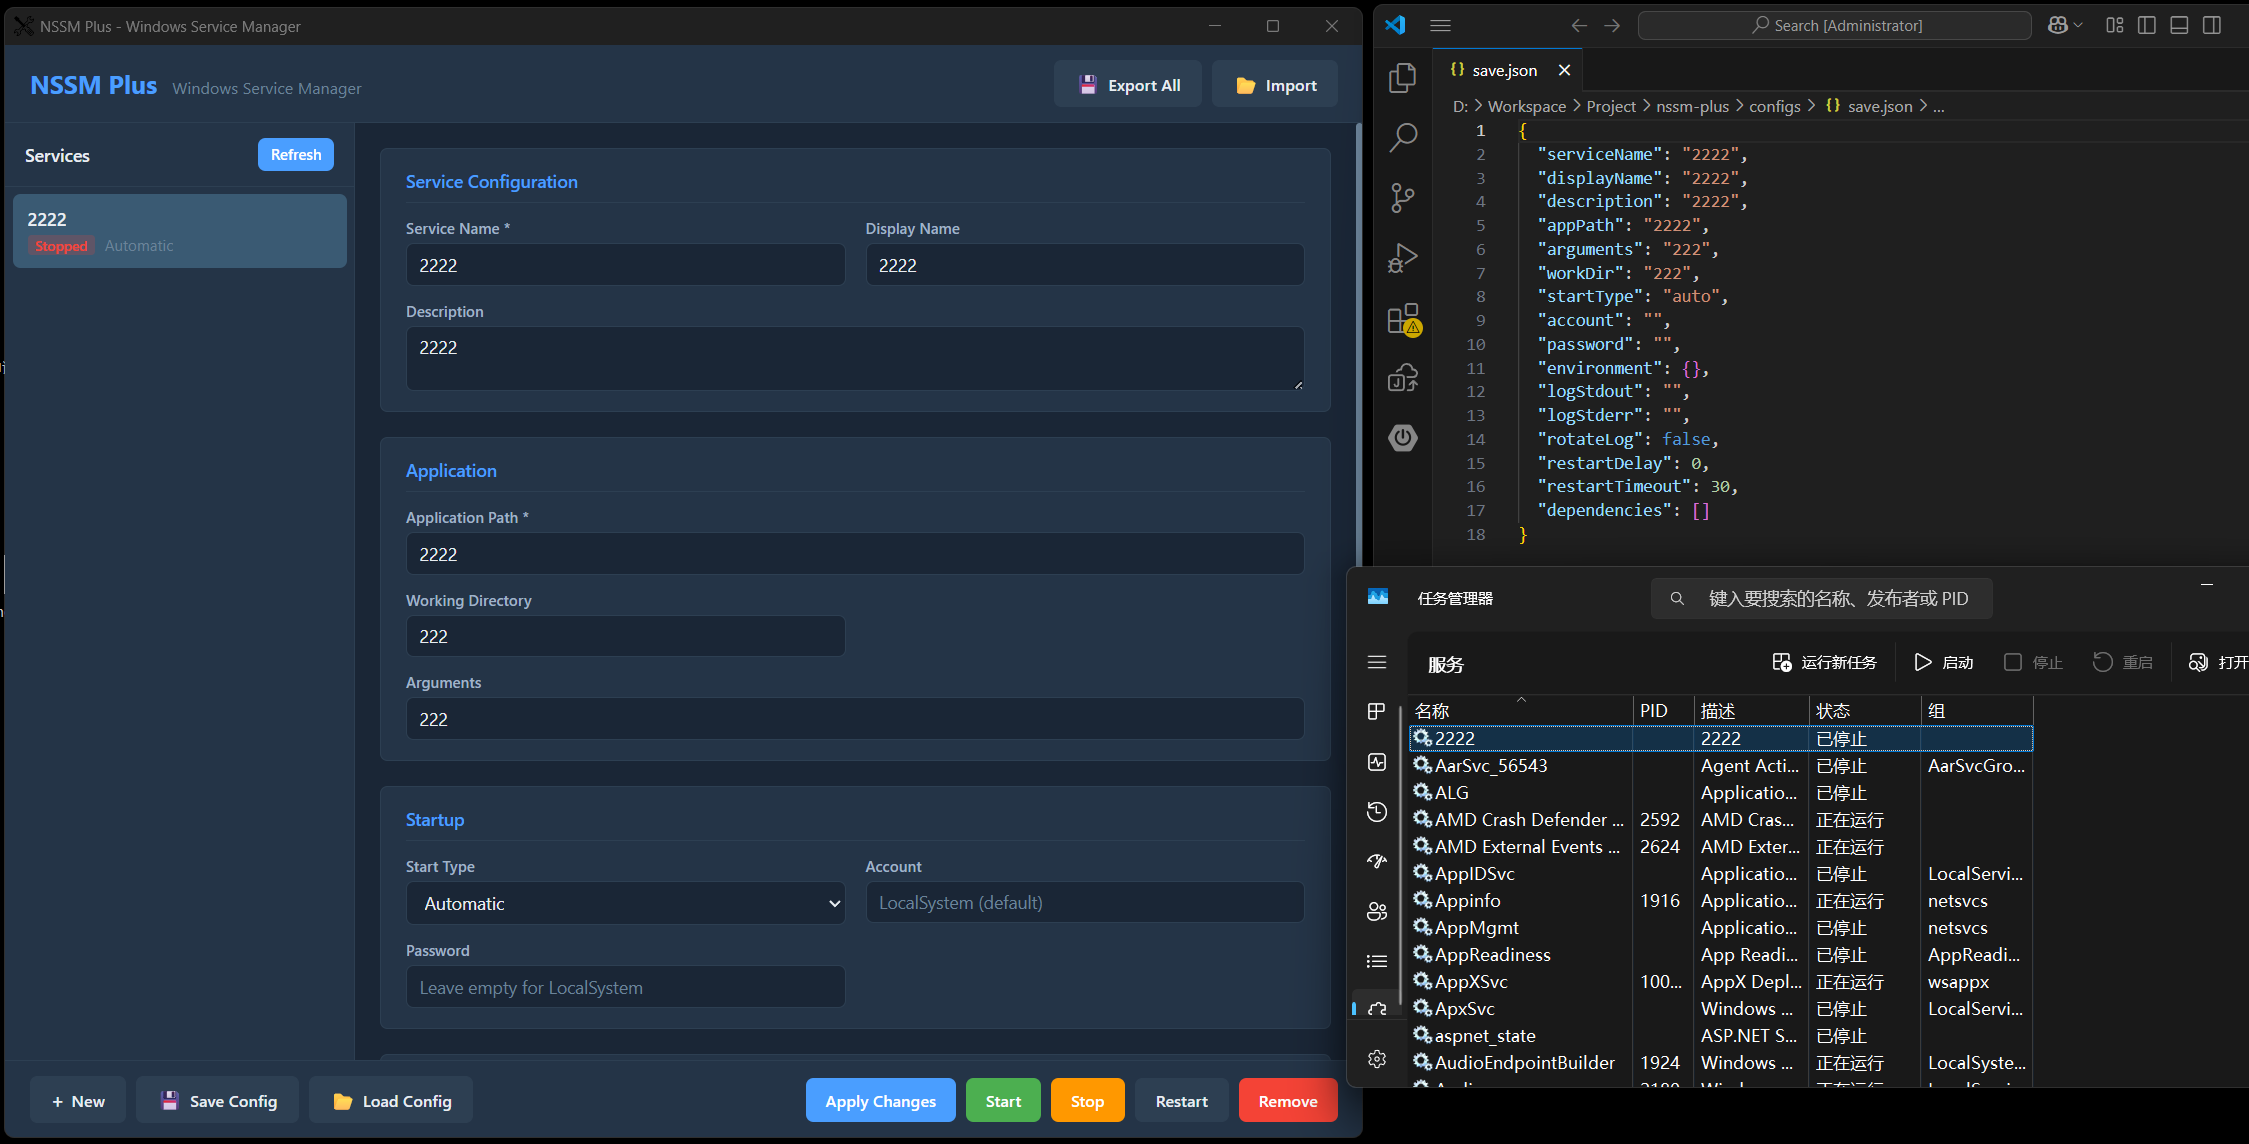
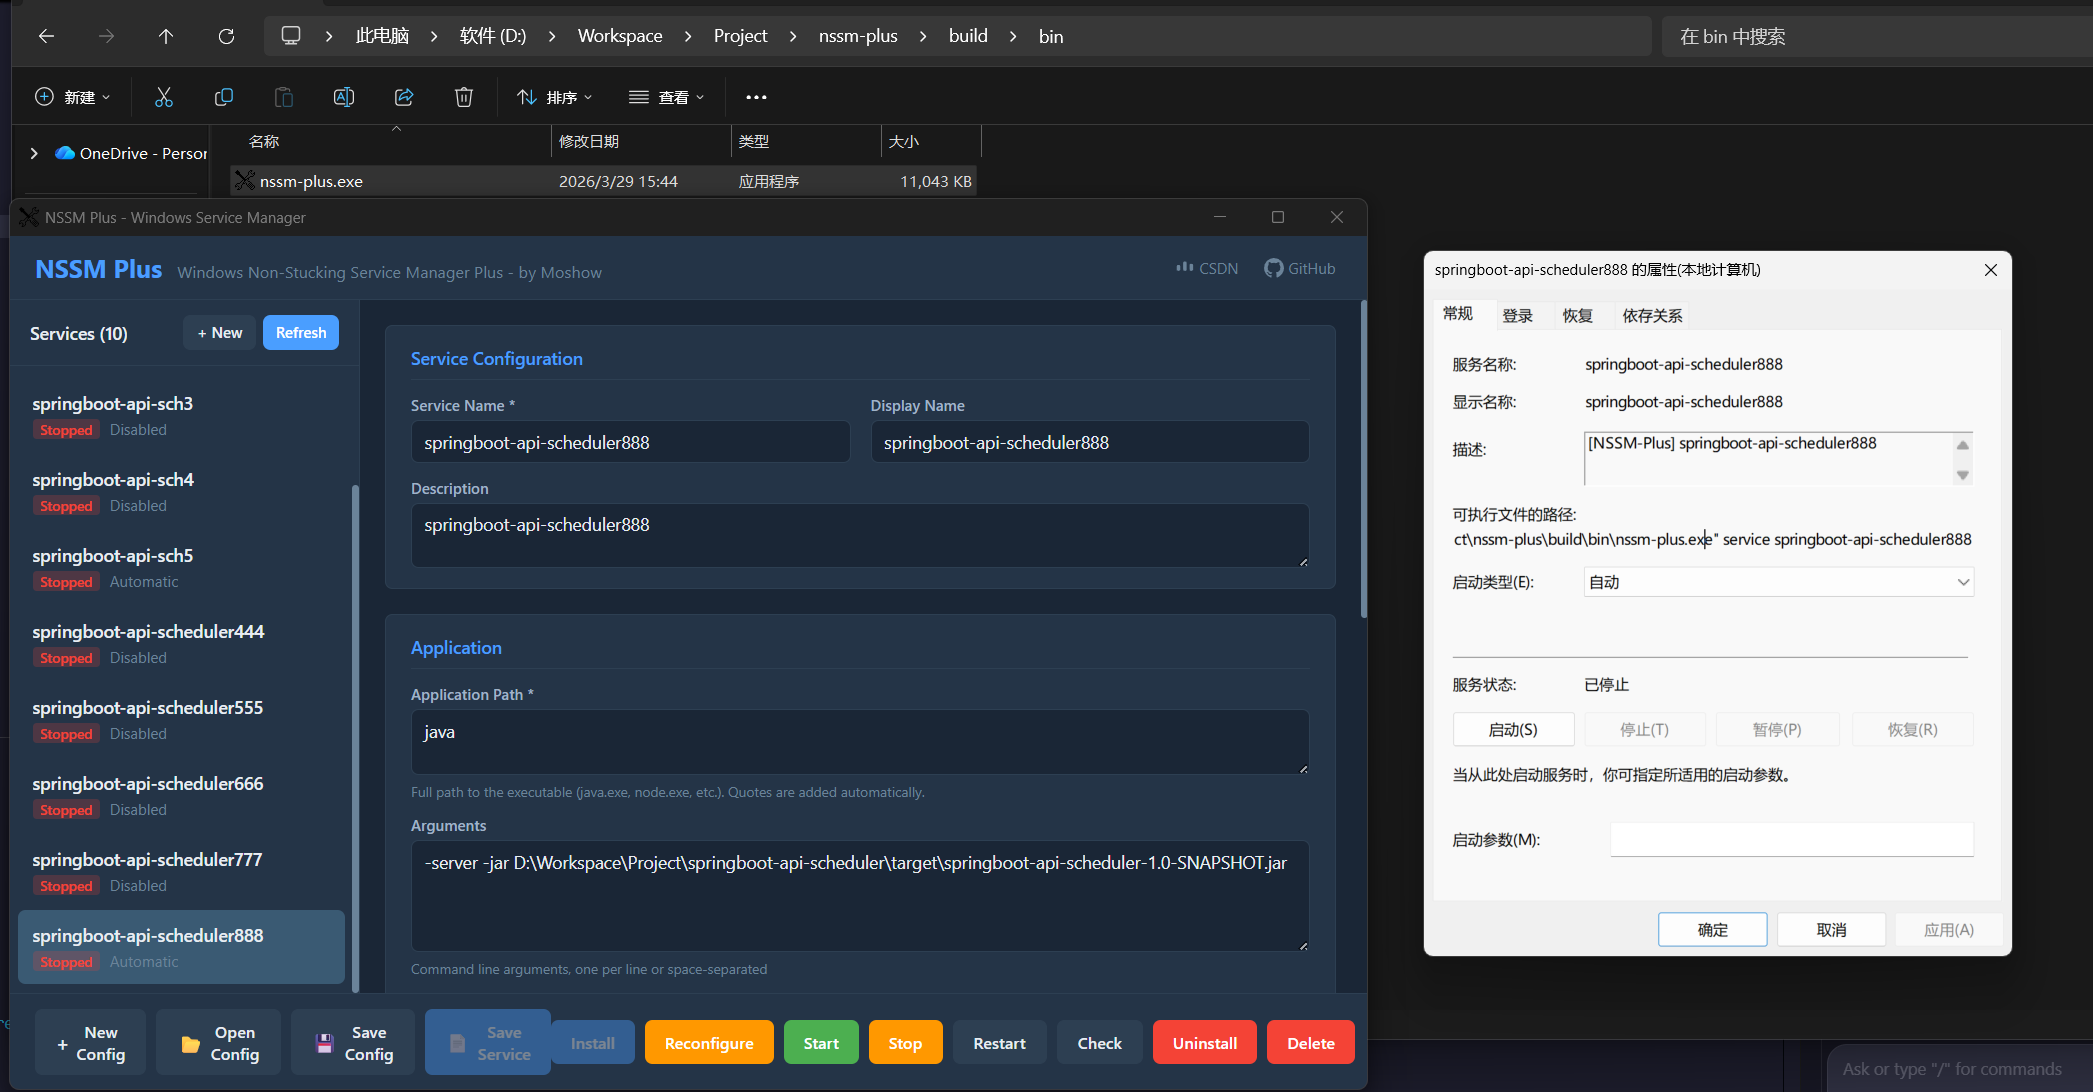
NSSM Plus **自托管包装器**方案

diff --git a/frontend/src/App.vue b/frontend/src/App.vue
@@ -81,11 +81,11 @@
             </div>
             <div class="form-group">
               <label>Display Name</label>
-              <input v-model="config.displayName" placeholder="My Service" />
+              <input v-model="config.displayName" placeholder="My Service" @focus="autoFillFromServiceName('displayName')" />
             </div>
             <div class="form-group full-width">
               <label>Description</label>
-              <textarea v-model="config.description" rows="2" placeholder="Service description"></textarea>
+              <textarea v-model="config.description" rows="2" placeholder="Service description" @focus="autoFillFromServiceName('description')"></textarea>
             </div>
           </div>
         </div>
@@ -651,6 +651,12 @@ export default {
       showToast('Debug info output to console (press F12)', 'info')
     }
 
+    function autoFillFromServiceName(field) {
+      if (config.serviceName && !config[field]) {
+        config[field] = config.serviceName
+      }
+    }
+
     onMounted(() => {
       refreshServices()
     })
@@ -662,6 +668,7 @@ export default {
       statusClass, refreshServices, selectService, copyService,
       installNewService, reconfigureService, startService, stopService, restartService, removeService,
       newConfig, deleteConfig, checkService, saveConfig, saveService, loadConfig, openInExplorer, debugInfo,
+      autoFillFromServiceName,
     }
   }
 }

diff --git a/README.md b/README.md
@@ -41,7 +41,7 @@
 
 ```
 nssm-plus/
-├── main.go                       # Wails 入口，窗口配置、资源嵌入
+├── main.go                       # 入口：检测 service 模式 / 启动 Wails GUI
 ├── app.go                        # 前后端桥接层，暴露给前端的 Go 方法
 ├── go.mod / go.sum               # Go 模块依赖
 ├── wails.json                    # Wails 项目配置
@@ -49,6 +49,9 @@ nssm-plus/
 ├── internal/                     # 后端核心逻辑（不直接暴露给前端）
 │   ├── service/
 │   │   └── manager.go            # Windows SCM 服务管理（安装/删除/启停/查询/修改）
+│   ├── wrapper/
+│   │   ├── config.go             # Wrapper 配置文件管理（ProgramData 持久化）
+│   │   └── wrapper.go            # Windows 服务包装器（进程托管/日志/停止）
 │   └── config/
 │       └── config.go             # 配置文件序列化（JSON 导入/导出）
 │
@@ -73,35 +76,82 @@ nssm-plus/
 
 ## 架构设计
 
+### 整体架构
+
 ```
-┌─────────────────────────────────────────────────────┐
-│                   WebView2 窗口                       │
-│  ┌─────────────────────────────────────────────────┐ │
-│  │              Vue 3 前端 (App.vue)                │ │
-│  │  ┌──────────┐  ┌────────────┐  ┌──────────────┐  │ │
-│  │  │ 服务列表  │  │ 配置表单    │  │  操作按钮栏   │  │ │
-│  │  └────┬─────┘  └─────┬──────┘  └──────┬───────┘  │ │
-│  └───────┼──────────────┼───────────────┼───────────┘ │
-│          │  window.go.main.App  (Wails 自动生成桥接)  │
-├──────────┼──────────────────────────────────────────┤
-│  Go 后端  │                                          │
-│  ┌───────┴──────────┐  ┌────────────────────────┐   │
-│  │    app.go         │  │  main.go               │   │
-│  │  前后端绑定方法    │  │  Wails 窗口初始化       │   │
-│  │  InstallService() │  │  embed frontend/dist   │   │
-│  │  StartService()   │  └────────────────────────┘   │
-│  │  StopService()    │                                │
-│  │  ...              │                                │
-│  └────┬─────────┬───┘                                │
-│       │         │                                     │
-│  ┌────┴────┐ ┌─┴──────┐                              │
-│  │ service │ │ config  │                              │
-│  │ manager │ │ manager │                              │
-│  │ (SCM)   │ │ (JSON)  │                              │
-│  └─────────┘ └────────┘                              │
-├─────────────────────────────────────────────────────┤
-│              Windows Service Control Manager          │
-└─────────────────────────────────────────────────────┘
+┌─────────────────────────────────────────────────────────────┐
+│                     WebView2 窗口                            │
+│  ┌─────────────────────────────────────────────────────────┐ │
+│  │              Vue 3 前端 (App.vue)                       │ │
+│  │  ┌──────────┐  ┌────────────┐  ┌──────────────┐        │ │
+│  │  │ 服务列表  │  │ 配置表单    │  │  操作按钮栏   │        │ │
+│  │  └────┬─────┘  └─────┬──────┘  └──────┬───────┘        │ │
+│  └───────┼──────────────┼───────────────┼───────────────────┘ │
+│          │  window.go.main.App  (Wails 自动生成桥接)          │
+├──────────┼──────────────────────────────────────────────────┤
+│  Go 后端  │                                                   │
+│  ┌───────┴──────────┐  ┌────────────────────────┐            │
+│  │    app.go         │  │  main.go               │            │
+│  │  前后端绑定方法    │  │  ┌─ service 模式检测    │            │
+│  │  InstallService() │  │  │  nssm-plus.exe        │            │
+│  │  StartService()   │  │  │    service MySvc     │            │
+│  │  ...              │  │  │  → wrapper.Run()     │            │
+│  └────┬─────────┬───┘  │  ├─ GUI 模式（默认）     │            │
+│       │         │       │  │  → wails.Run()       │            │
+│  ┌────┴────┐ ┌─┴───┐   │  └──────────────────────┘            │
+│  │ service │ │config│   └────────────────────────┘             │
+│  │ manager │ │      │                                         │
+│  │ (SCM)   │ │(JSON)│                                         │
+│  └────┬────┘ └──────┘                                         │
+│       │                                                        │
+│  ┌────┴──────────┐                                             │
+│  │    wrapper     │  ← 服务包装器核心                          │
+│  │  config.go     │  WrapperConfig → ProgramData/NSSM-Plus/   │
+│  │  wrapper.go    │  svc.Handler → 启动/监控/停止子进程         │
+│  └───────────────┘                                             │
+├───────────────────────────────────────────────────────────────┤
+│                   Windows Service Control Manager              │
+└───────────────────────────────────────────────────────────────┘
+```
+
+### 服务包装器（Wrapper）机制
+
+NSSM Plus 的核心设计借鉴了 NSSM 的 Wrapper 模式。由于 `java.exe`、`node.exe` 等程序本身不是 Windows 服务，无法直接被 SCM 管理，因此 NSSM Plus 采用**自托管包装器**方案：
+
+```
+启动流程:
+  SCM → nssm-plus.exe service MyService → 读取配置 → 启动子进程 → 监控
+
+停止流程:
+  SCM → STOP 信号 → taskkill /T /PID (优雅停止) → 5s 超时 → taskkill /F /T /PID (强制)
+```
+
+**工作原理**：
+1. 安装服务时，SCM 的 `BinaryPathName` 指向 `nssm-plus.exe` 自身，格式为：`"<exePath>" service <ServiceName>`
+2. 服务启动时，`main.go` 检测到 `service` 参数，调用 `wrapper.Run()` 进入服务模式
+3. Wrapper 实现 `svc.Handler` 接口，读取 `ProgramData/NSSM-Plus/services/<name>.json` 中的配置
+4. 使用 `exec.Command` 启动目标子进程（如 `java -jar app.jar`），将 stdout/stderr 重定向到日志文件
+5. 进入事件循环，响应 SCM 的 Stop/Shutdown 信号，通过 `taskkill /T /PID` 终止子进程树
+
+**数据存储路径**：
+```
+%ProgramData%\NSSM-Plus\
+├── services\           # 每个服务的独立配置文件
+│   ├── MyService.json
+│   └── AnotherService.json
+└── logs\               # 子进程输出日志
+    ├── MyService.log
+    └── AnotherService.log
+```
+
+**Wrapper 配置结构**（`internal/wrapper/config.go`）：
+```go
+type WrapperConfig struct {
+    AppPath   string            `json:"appPath"`   // 应用程序路径
+    Arguments string            `json:"arguments"` // 启动参数
+    WorkDir   string            `json:"workDir"`   // 工作目录
+    Env       map[string]string `json:"env"`       // 环境变量
+}
 ```
 
 ### 前后端通信
@@ -117,15 +167,20 @@ window.go.main.App.GetInstalledServices()   // 获取服务列表
 
 所有在 `app.go` 中定义的 `App` 结构体的公开方法，只要参数和返回值是可序列化类型，都会自动暴露给前端。
 
-### 服务标记机制
+### 服务识别机制
 
-NSSM Plus 通过在服务的 Description 字段中添加 `[NSSM-Plus]` 前缀来标记自己管理的服务：
+NSSM Plus 通过两个维度识别自己管理的服务：
 
-```
-Description: "[NSSM-Plus] My web application service"
-```
+1. **Description 标记**：服务的 Description 字段中添加 `[NSSM-Plus]` 前缀
+   ```
+   Description: "[NSSM-Plus] My web application service"
+   ```
+2. **Wrapper BinaryPathName**：BinaryPathName 包含 ` service ` 关键字，指向 `nssm-plus.exe` 自身
+   ```
+   BinaryPathName: "C:\path\to\nssm-plus.exe" service MyService
+   ```
 
-`ListServices()` 会枚举系统所有服务，只返回带有此标记的服务，从而与系统自带服务区分。
+`ListServices()` 会枚举系统所有服务，通过 Description 标记筛选。对于 Wrapper 服务，`GetServiceConfig()` 和 `ListServices()` 会从 `ProgramData/NSSM-Plus/services/` 读取真实的应用路径和参数，而非显示 wrapper 的 BinaryPathName。
 
 ### 配置数据结构
 
@@ -247,7 +302,6 @@ npm run dev
 7. **Uninstall** 卸载服务，**Delete** 仅清空当前表单
 8. 点击 **Save Config** 将所有已管理服务保存到一份 JSON 文件
 9. 点击 **Debug** 输出调试信息到控制台（按 F12 查看）
-10. 需要始终对 AppPath 加引号，防止 SCM 对整个字符串加引号。
 
 配置文件示例参见 [`configs/example.json`](configs/example.json)。
 
@@ -272,9 +326,9 @@ npm run dev
 **常见修改场景**：
 
 - **增加服务配置字段**：在 `ServiceConfig` 结构体中添加字段，然后在 `Install()` 和 `Modify()` 中将新字段写入 `mgr.Config`
-- **添加日志重定向**：实现 stdout/stderr 管道捕获，将子进程输出写入日志文件（当前 `LogStdout`/`LogStderr` 仅保存路径，尚未实际重定向）
-- **实现崩溃重启**：监听服务进程退出事件，按 `RestartDelay` 延迟后重新启动
-- **使用 wrapper 模式**：像 NSSM 一样，编译一个独立的 wrapper 二进制来托管目标应用，而非直接指向目标 exe
+- **自定义日志路径**：当前日志固定输出到 `%ProgramData%\NSSM-Plus\logs\`，可在 `WrapperConfig` 中增加 `LogPath` 字段，并修改 `wrapper.go` 的日志重定向逻辑
+- **实现崩溃重启**：在 `wrapper.go` 的 `Execute()` 方法中，当子进程非正常退出时，按 `RestartDelay` 延迟后重新启动
+- **修改停止策略**：当前使用 `taskkill /T /PID`（优雅 5s + 强制），可在 `stopProcess()` 函数中调整超时时间和终止策略
 
 ### 2. 添加新的前后端桥接方法
 
@@ -376,21 +430,35 @@ err := wails.Run(&options.App{
 | 配置界面 | Tab 页切换 (5+ 个 Tab) | 单页面，无需切换 |
 | 配置迁移 | 无内置支持 | 多服务 JSON 文件统一管理 |
 | 界面语言 | 英文 | 可扩展多语言 |
-| 服务包装 | Wrapper 二进制托管进程 | 直接指向目标程序 |
-| 日志重定向 | 支持 stdout/stderr 捕获 | 字段已预留（待实现） |
+| 服务包装 | Wrapper 二进制托管进程 | 自托管 Wrapper 模式（同一可执行文件） |
+| 日志重定向 | 支持 stdout/stderr 捕获 | 已实现，输出到 `%ProgramData%\NSSM-Plus\logs\` |
 | 崩溃重启 | 内置 | 字段已预留（待实现） |
+| 进程停止 | 直接终止 | 优雅停止（taskkill /T）+ 强制终止（5s 超时后 taskkill /F） |
+| 环境变量 | 支持 | 已实现，通过 WrapperConfig.Env 注入 |
+| 工作目录 | 支持 | 已实现，通过 WrapperConfig.WorkDir 设置 |
+| BinaryPathName | `nssm.exe` 指向目标程序 | 自身 exe 作为 Wrapper，避免 `syscall.EscapeArg` 问题 |
 | 跨平台 | 仅 Windows | 仅 Windows |
+
+## 已完成功能
+
+以下是服务包装器核心功能的实现状态：
+
+- [x] **服务包装器架构** - `internal/wrapper/` 模块，实现 `svc.Handler` 接口
+- [x] **日志重定向** - 子进程 stdout/stderr 输出到 `%ProgramData%\NSSM-Plus\logs\<name>.log`
+- [x] **环境变量注入** - 通过 `WrapperConfig.Env` 在启动子进程时注入自定义环境变量
+- [x] **工作目录设置** - 通过 `WrapperConfig.WorkDir` 设置子进程的 `cwd`
+- [x] **优雅停止** - 先 `taskkill /T /PID`（5s 超时），再 `taskkill /F /T /PID` 强制终止
+- [x] **Wrapper 配置持久化** - `ProgramData/NSSM-Plus/services/<name>.json` 独立存储
+- [x] **进程树终止** - 通过 `/T` 参数终止子进程及其所有衍生进程（如 java.exe → 子线程）
+- [x] **控制台调试模式** - 非服务环境下可直接运行 wrapper 进行调试
+- [x] **原生文件对话框** - 使用 Wails 的 `runtime.SaveFileDialog` / `runtime.OpenFileDialog`
+- [x] **DisplayName/Description 自动填充** - 输入 ServiceName 后点击对应字段自动填充
 
 ## 待完成功能
 
-以下是当前版本中字段已定义但逻辑尚未完整实现的功能，可作为后续开发的切入点：
-
-- [ ] **日志重定向** - `LogStdout` / `LogStderr` 字段已定义，需实现 wrapper 模式捕获子进程输出
 - [ ] **日志轮转** - `RotateLog` 字段已定义，需实现按大小/日期切割日志文件
-- [ ] **崩溃重启** - `RestartDelay` / `RestartTimeout` 字段已定义，需实现进程监控和自动重启
-- [ ] **环境变量注入** - `Environment` 字段已定义，需在启动子进程时设置
-- [ ] **工作目录** - `WorkDir` 字段已定义，需在启动时设置 `cwd`
-- [x] **原生文件对话框** - 使用 Wails 的 `runtime.SaveFileDialog` / `runtime.OpenFileDialog` 替代浏览器弹窗
+- [ ] **崩溃自动重启** - `RestartDelay` / `RestartTimeout` 字段已定义，需实现进程监控和自动重启
+- [ ] **自定义日志路径** - `LogStdout` / `LogStderr` 字段已定义，当前固定输出到 ProgramData，需支持自定义路径
 - [ ] **服务重命名** - 当前 `Modify` 不支持更改服务名称
 - [ ] **多语言支持 (i18n)** - UI 文本硬编码为中文/英文混合
 - [ ] **系统托盘** - 最小化到系统托盘，后台运行
